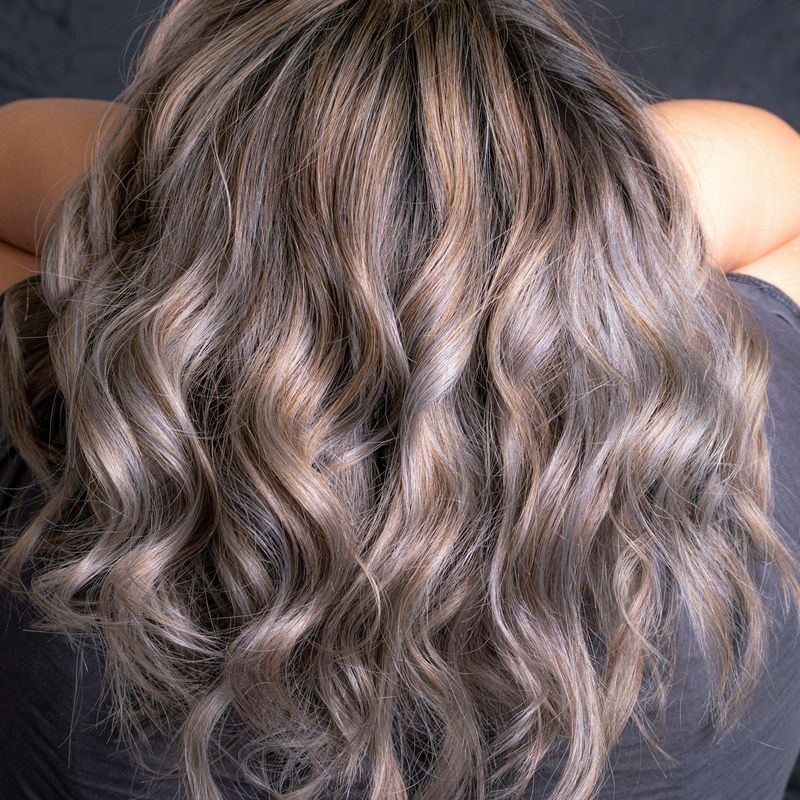
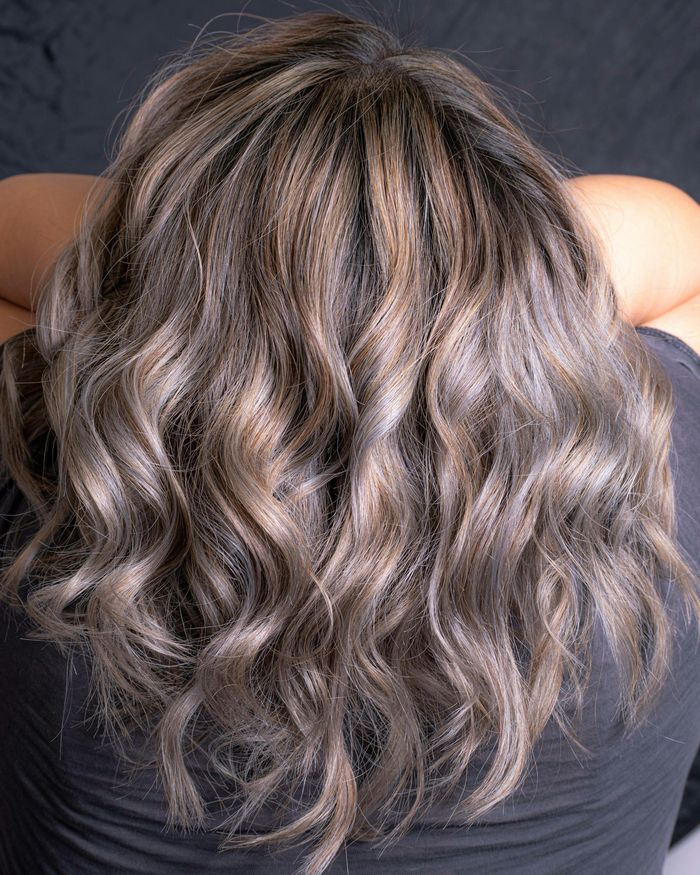
Smoother page: scroll reveal, header shadow, animated accordions; photos in natural shape; booking jump fits the screen
- 'Termin buchen' now jumps to the booking card; heading left, form right on desktop so the whole form incl. submit fits
- fixed double scroll offset (scroll-padding + scroll-margin added up)
- hero: text + photo side by side instead of a cropped full-width background
- photos re-exported uncropped (only logo/face areas cut, more gently), gallery as 4-column masonry
- fade-in on scroll via IntersectionObserver, hero intro animation, hover effects
- respects 'reduce motion'; without JavaScript everything stays visible

Claude-Session: https://claude.ai/code/session_01RXCLACb9gzkrxs8hnWdEQA

diff --git a/index.html b/index.html
@@ -6,6 +6,7 @@
   <title>Haarwerk Huber – Friseur in Graz</title>
   <meta name="description" content="Haarwerk Huber – Ihr Friseur in Graz für Damen, Herren und Kinder. Schnitt, Farbe, Styling. Termin online buchen.">
   <link rel="preload" href="fonts/cormorant-garamond-latin-500-normal.woff2" as="font" type="font/woff2" crossorigin>
+  <script>document.documentElement.classList.add('js');</script>
   <link rel="icon" href="favicon.svg" type="image/svg+xml">
   <link rel="stylesheet" href="style.css">
 </head>
@@ -35,39 +36,44 @@
 
     <section class="hero">
       <div class="inner">
-        <span class="eyebrow">Friseur in der Grazer Innenstadt · seit 2012</span>
-        <h1>Ihr Friseur in Graz</h1>
-        <p>Schnitt, Farbe und Styling für Damen, Herren und Kinder – mit ehrlicher Beratung und Zeit für Sie.</p>
-        <div class="actions">
-          <a class="button" href="#termin">Termin online buchen</a>
-          <a class="button light" href="tel:+43316000000">Anrufen: 0316 000 000</a>
+        <div>
+          <span class="eyebrow" data-intro>Friseur in der Grazer Innenstadt · seit 2012</span>
+          <h1 data-intro style="--delay:.1s">Ihr Friseur <em>in Graz</em></h1>
+          <p data-intro style="--delay:.2s">Schnitt, Farbe und Styling für Damen, Herren und Kinder – mit ehrlicher Beratung und Zeit für Sie.</p>
+          <div class="actions" data-intro style="--delay:.3s">
+            <a class="button" href="#termin">Termin online buchen</a>
+            <a class="button secondary" href="tel:+43316000000">Anrufen: 0316 000 000</a>
+          </div>
         </div>
+        <figure class="hero-photo" data-intro style="--delay:.25s">
+          <img src="img/hero.jpg" alt="Friseurin föhnt einer Kundin die Haare mit der Rundbürste" width="1200" height="801" fetchpriority="high">
+        </figure>
       </div>
     </section>
 
     <section class="section" id="ueber-uns">
       <div class="container split">
         <div>
-          <span class="eyebrow">Über uns</span>
-          <h2>Gutes Handwerk braucht Zeit</h2>
+          <span class="eyebrow" data-reveal>Über uns</span>
+          <h2 data-reveal>Gutes Handwerk braucht Zeit</h2>
           <p class="lead">Seit 2012 schneiden, färben und stylen wir in der Grazer Innenstadt. Bei uns zählt eine ehrliche Beratung mehr als jeder Trend: Wir nehmen uns Zeit, hören zu und finden gemeinsam mit Ihnen den Schnitt, der zu Ihnen passt.</p>
           <p>Wir arbeiten mit hochwertigen, schonenden Produkten und sagen Ihnen den Preis, bevor wir anfangen. Keine Überraschungen an der Kassa.</p>
-          <div class="facts">
+          <div class="facts" data-reveal style="--delay:.1s">
             <div><strong>2012</strong><span>gegründet</span></div>
             <div><strong>3</strong><span>Friseurinnen &amp; Friseure</span></div>
             <div><strong>24/7</strong><span>online buchen</span></div>
           </div>
         </div>
-        <img src="img/ueber-uns.jpg" alt="Hände einer Friseurin beim Haareschneiden" width="900" height="1100" loading="lazy">
+        <img src="img/ueber-uns.jpg" alt="Schere schneidet langes dunkles Haar" width="800" height="1200" loading="lazy" data-reveal style="--delay:.15s">
       </div>
     </section>
 
     <section class="section alt" id="preise">
       <div class="narrow">
         <span class="eyebrow">Leistungen &amp; Preise</span>
-        <h2>Was wir für Sie tun</h2>
+        <h2 data-reveal>Was wir für Sie tun</h2>
         <p class="lead">Tippen Sie auf eine Kategorie, um die Preise zu sehen.</p>
-        <div class="accordion">
+        <div class="accordion" data-reveal>
         <details open>
           <summary>Damen <span class="from">ab € 48</span></summary>
           <div class="panel">
@@ -131,22 +137,22 @@
     <section class="section" id="team">
       <div class="container">
         <span class="eyebrow">Team</span>
-        <h2>Die Menschen hinter der Schere</h2>
+        <h2 data-reveal>Die Menschen hinter der Schere</h2>
         <p class="lead">Drei Menschen, drei Schwerpunkte – und immer jemand, der genau zu Ihrem Haar passt.</p>
         <div class="team">
-          <article class="member">
+          <article class="member" data-reveal style="--delay:0.00s">
             <div class="avatar" aria-hidden="true">MH</div>
             <h3>Maria Huber</h3>
             <p class="role">Inhaberin · Friseurmeisterin</p>
             <p>Gründete den Salon 2012. Spezialistin für Damenschnitte und Hochsteckfrisuren.</p>
           </article>
-          <article class="member">
+          <article class="member" data-reveal style="--delay:0.12s">
             <div class="avatar" aria-hidden="true">LW</div>
             <h3>Lena Wolf</h3>
             <p class="role">Coloristin</p>
             <p>Strähnen, Balayage und natürliche Farbtöne. Berät gerne auch zu Pflege nach dem Färben.</p>
           </article>
-          <article class="member">
+          <article class="member" data-reveal style="--delay:0.24s">
             <div class="avatar" aria-hidden="true">JB</div>
             <h3>Jonas Berger</h3>
             <p class="role">Herren &amp; Bart</p>
@@ -159,15 +165,15 @@
     <section class="section alt" id="galerie">
       <div class="container">
         <span class="eyebrow">Galerie</span>
-        <h2>Einblicke in den Salon</h2>
+        <h2 data-reveal>Einblicke in den Salon</h2>
         <p class="lead">Ein paar Eindrücke aus unserem Alltag.</p>
         <div class="gallery">
-          <figure><img src="img/galerie-1.jpg" alt="Salon-Innenraum mit Spiegeln und Stühlen" width="800" height="800" loading="lazy"></figure>
-          <figure><img src="img/galerie-2.jpg" alt="Werkzeug: Scheren und Kämme" width="800" height="800" loading="lazy"></figure>
-          <figure><img src="img/galerie-3.jpg" alt="Frisch gefärbte Haare von hinten" width="800" height="800" loading="lazy"></figure>
-          <figure><img src="img/galerie-4.jpg" alt="Haare werden geföhnt" width="800" height="800" loading="lazy"></figure>
-          <figure><img src="img/galerie-5.jpg" alt="Pflegeprodukte im Regal" width="800" height="800" loading="lazy"></figure>
-          <figure><img src="img/galerie-6.jpg" alt="Waschbecken im Salon" width="800" height="800" loading="lazy"></figure>
+          <figure data-reveal style="--delay:0.0s"><img src="img/galerie-1.jpg" alt="Gewellte, gesträhnte Haare von hinten" width="700" height="875" loading="lazy"></figure>
+          <figure data-reveal style="--delay:0.1s"><img src="img/galerie-2.jpg" alt="Salon mit runden Spiegeln und Friseurstühlen" width="700" height="702" loading="lazy"></figure>
+          <figure data-reveal style="--delay:0.2s"><img src="img/galerie-3.jpg" alt="Pflegeprodukte im Regal" width="700" height="467" loading="lazy"></figure>
+          <figure data-reveal style="--delay:0.0s"><img src="img/galerie-4.jpg" alt="Herrenschnitt mit Kamm und Schere" width="700" height="1120" loading="lazy"></figure>
+          <figure data-reveal style="--delay:0.1s"><img src="img/galerie-5.jpg" alt="Waschbecken im Salon" width="700" height="467" loading="lazy"></figure>
+          <figure data-reveal style="--delay:0.2s"><img src="img/galerie-6.jpg" alt="Kämme und Bürsten" width="700" height="612" loading="lazy"></figure>
         </div>
       </div>
     </section>
@@ -175,20 +181,20 @@
     <section class="section" id="bewertungen">
       <div class="container">
         <span class="eyebrow">Bewertungen</span>
-        <h2>Das sagen unsere Kundinnen und Kunden</h2>
+        <h2 data-reveal>Das sagen unsere Kundinnen und Kunden</h2>
         <p class="lead">Beispiel-Bewertungen – erfunden für dieses Übungsprojekt.</p>
         <div class="reviews">
-          <figure class="review">
+          <figure class="review" data-reveal style="--delay:0.00s">
             <div class="stars" aria-label="5 von 5 Sternen">★★★★★</div>
             <blockquote>„Endlich ein Friseur, der wirklich zuhört. Der Schnitt sitzt auch nach Wochen noch.“</blockquote>
             <figcaption>Beispiel-Bewertung · Damenschnitt</figcaption>
           </figure>
-          <figure class="review">
+          <figure class="review" data-reveal style="--delay:0.12s">
             <div class="stars" aria-label="5 von 5 Sternen">★★★★★</div>
             <blockquote>„Online gebucht, am Vorabend erinnert, pünktlich drangekommen. So einfach war's noch nie.“</blockquote>
             <figcaption>Beispiel-Bewertung · Herrenschnitt</figcaption>
           </figure>
-          <figure class="review">
+          <figure class="review" data-reveal style="--delay:0.24s">
             <div class="stars" aria-label="5 von 5 Sternen">★★★★★</div>
             <blockquote>„Die Strähnen sehen genau so natürlich aus, wie ich es mir gewünscht habe.“</blockquote>
             <figcaption>Beispiel-Bewertung · Strähnen</figcaption>
@@ -197,12 +203,15 @@
       </div>
     </section>
 
-    <section class="section alt" id="termin">
-      <div class="narrow">
-        <span class="eyebrow">Online-Termin</span>
-        <h2>Termin buchen</h2>
-        <p class="lead">Wählen Sie Leistung und Tag – Sie sehen nur Zeiten, die wirklich frei sind. Die Bestätigung kommt sofort per E-Mail.</p>
-        <div class="booking-card">
+    <section class="section alt">
+      <div class="container">
+        <div class="booking-card" id="termin">
+          <div class="booking-intro">
+            <span class="eyebrow">Online-Termin</span>
+            <h2>Termin buchen</h2>
+            <p class="lead">Sie sehen nur Zeiten, die wirklich frei sind. Die Bestätigung kommt sofort per E-Mail, am Vorabend eine Erinnerung.</p>
+            <p class="small">Di–Fr 9–18 Uhr · Sa 8–13 Uhr<br>Lieber telefonisch? <a href="tel:+43316000000">0316 000 000</a></p>
+          </div>
       <form id="booking-form">
         <label>Leistung
           <select name="service" required>
@@ -252,8 +261,8 @@
     <section class="section" id="faq">
       <div class="narrow">
         <span class="eyebrow">FAQ</span>
-        <h2>Häufige Fragen</h2>
-        <div class="accordion faq">
+        <h2 data-reveal>Häufige Fragen</h2>
+        <div class="accordion faq" data-reveal>
         <details>
           <summary>Wie kann ich meinen Termin ändern oder absagen?</summary>
           <div class="panel"><p>In Ihrer Bestätigungs-E-Mail finden Sie einen Link, mit dem Sie den Termin bis 24 Stunden vorher selbst verschieben oder stornieren können. Danach rufen Sie uns bitte an: +43 316 000 000.</p></div>
@@ -286,7 +295,7 @@
       <div class="container contact">
         <div>
           <span class="eyebrow">Kontakt</span>
-          <h2>So finden Sie uns</h2>
+          <h2 data-reveal>So finden Sie uns</h2>
           <address>
             <p>Haarwerk Huber<br>Musterstraße 12<br>8010 Graz</p>
             <p style="margin-top:1rem">
@@ -298,7 +307,7 @@
             <a class="button secondary" href="https://www.google.com/maps/search/?api=1&amp;query=Musterstra%C3%9Fe+12+8010+Graz" target="_blank" rel="noopener">Route planen ↗</a>
           </p>
         </div>
-        <div id="oeffnungszeiten">
+        <div id="oeffnungszeiten" data-reveal style="--delay:.1s">
           <h3>Öffnungszeiten</h3>
           <table>
             <tr><td>Montag</td><td>geschlossen</td></tr>
@@ -333,6 +342,24 @@
     menuButton.addEventListener('click', () => setMenu(!nav.classList.contains('open')));
     nav.addEventListener('click', (e) => { if (e.target.closest('a')) setMenu(false); }); // Link gewählt → zu
     document.addEventListener('keydown', (e) => { if (e.key === 'Escape') setMenu(false); });
+
+    // ── Header bekommt beim Scrollen einen Schatten ──
+    const header = document.querySelector('.site-header');
+    const onScroll = () => header.classList.toggle('scrolled', window.scrollY > 10);
+    window.addEventListener('scroll', onScroll, { passive: true });
+    onScroll();
+
+    // ── Elemente weich einblenden, sobald sie ins Bild kommen ──
+    // IntersectionObserver meldet, wenn ein Element sichtbar wird – ohne bei jedem Scroll-Pixel zu rechnen.
+    const revealObserver = new IntersectionObserver((entries) => {
+      entries.forEach((entry) => {
+        if (entry.isIntersecting) {
+          entry.target.classList.add('visible');
+          revealObserver.unobserve(entry.target); // nur einmal einblenden
+        }
+      });
+    }, { threshold: 0.12, rootMargin: '0px 0px -40px 0px' });
+    document.querySelectorAll('[data-reveal]').forEach((el) => revealObserver.observe(el));
   </script>
   <script>
     const form = document.getElementById('booking-form');

diff --git a/style.css b/style.css
@@ -69,7 +69,7 @@ h3 { font-size: 1.5rem; }
 
 /* ───────── Kopfzeile mit Menü (bleibt oben stehen) ───────── */
 .site-header {
-  position: sticky; top: 0; z-index: 50;
+  position: sticky; top: 0; z-index: 50; transition: box-shadow 0.3s;
   background: rgba(250, 247, 242, 0.96);
   border-bottom: 1px solid var(--line);
   backdrop-filter: blur(6px);
@@ -78,6 +78,7 @@ h3 { font-size: 1.5rem; }
   max-width: 1120px; margin: 0 auto; padding: 0 1.25rem; height: var(--header-h);
   display: flex; align-items: center; gap: 1.5rem;
 }
+.site-header.scrolled { box-shadow: 0 6px 20px -10px rgba(43, 38, 34, 0.35); }
 .logo { font-family: var(--serif); font-size: 1.6rem; font-weight: 600; color: var(--text); text-decoration: none; white-space: nowrap; }
 .logo span { color: var(--accent); }
 .site-nav { margin-left: auto; }
@@ -109,24 +110,27 @@ h3 { font-size: 1.5rem; }
 @media (max-width: 860px) { .site-header .inner { gap: 0.75rem; } }
 @media (max-width: 480px) { .logo { font-size: 1.35rem; } .header-cta .long { display: none; } .header-cta .short { display: inline; } }
 
-/* ───────── Hero ───────── */
-.hero {
-  position: relative; min-height: min(78vh, 640px); display: flex; align-items: flex-end;
-  background: #8c7a68 url("img/hero.jpg") center / cover no-repeat;
-  color: #fff;
+/* ───────── Hero: Text links, Foto rechts (Foto behält seine Form) ───────── */
+.hero { padding: clamp(2.5rem, 6vw, 5rem) 1.25rem; overflow: hidden; }
+.hero .inner {
+  max-width: 1120px; margin: 0 auto;
+  display: grid; grid-template-columns: 1fr 1fr; gap: clamp(2rem, 5vw, 4.5rem); align-items: center;
 }
-.hero::before { /* dunkler Verlauf, damit der Text auf jedem Foto lesbar bleibt */
-  content: ""; position: absolute; inset: 0;
-  background:
-    linear-gradient(90deg, rgba(43,38,34,0.55) 0%, rgba(43,38,34,0.25) 55%, rgba(43,38,34,0) 80%),
-    linear-gradient(180deg, rgba(43,38,34,0.05) 0%, rgba(43,38,34,0.25) 45%, rgba(43,38,34,0.75) 100%);
-}
-.hero .eyebrow, .hero h1, .hero p { text-shadow: 0 1px 12px rgba(0,0,0,0.35); }
-.hero .inner { position: relative; max-width: 1120px; width: 100%; margin: 0 auto; padding: 4rem 1.25rem 3.5rem; }
-.hero .eyebrow { color: #f3e2d3; }
-.hero h1 { font-size: clamp(2.8rem, 8vw, 5rem); font-weight: 500; max-width: 14ch; }
-.hero p { font-size: 1.15rem; max-width: 34rem; margin: 1rem 0 2rem; color: #f6efe7; }
+.hero h1 { font-size: clamp(2.8rem, 6.5vw, 4.6rem); font-weight: 500; }
+.hero h1 em { font-style: italic; color: var(--accent); }
+.hero p { font-size: 1.15rem; max-width: 30rem; margin: 1.25rem 0 2rem; color: var(--muted); }
 .hero .actions { display: flex; flex-wrap: wrap; gap: 0.75rem; }
+.hero-photo { position: relative; }
+.hero-photo img { width: 100%; height: auto; border-radius: 2px; box-shadow: 0 24px 48px -24px rgba(43, 38, 34, 0.45); }
+.hero-photo::before { /* versetzter Rahmen hinter dem Foto */
+  content: ""; position: absolute; inset: 1.25rem -1.25rem -1.25rem 1.25rem;
+  border: 1px solid var(--accent); border-radius: 2px; z-index: -1;
+}
+.hero .facts { margin-top: 2.5rem; }
+@media (max-width: 860px) {
+  .hero .inner { grid-template-columns: 1fr; }
+  .hero-photo { margin-right: 1.25rem; }
+}
 
 /* ───────── Abschnitte ───────── */
 .section { padding: clamp(3.5rem, 8vw, 6rem) 1.25rem; }
@@ -135,12 +139,12 @@ h3 { font-size: 1.5rem; }
 .narrow { max-width: 760px; margin: 0 auto; }
 
 /* Über uns: Text + Bild nebeneinander */
-.split { display: grid; grid-template-columns: 1.1fr 0.9fr; gap: clamp(2rem, 5vw, 4rem); align-items: center; }
-.split img { aspect-ratio: 4 / 5; object-fit: cover; width: 100%; border-radius: 2px; }
+.split { display: grid; grid-template-columns: 1.4fr 0.6fr; gap: clamp(2rem, 6vw, 5rem); align-items: center; }
+.split img { width: 100%; max-width: 360px; height: auto; justify-self: end; border-radius: 2px; }
 .facts { display: flex; flex-wrap: wrap; gap: 2rem; margin-top: 2rem; }
 .facts strong { display: block; font-family: var(--serif); font-size: 2.2rem; font-weight: 600; color: var(--accent); line-height: 1; }
 .facts span { color: var(--muted); font-size: 0.9rem; }
-@media (max-width: 760px) { .split { grid-template-columns: 1fr; } .split img { aspect-ratio: 4 / 3; } }
+@media (max-width: 760px) { .split { grid-template-columns: 1fr; } .split img { max-width: 280px; justify-self: start; } }
 
 /* Preise: Aufklapp-Liste (details/summary) */
 .accordion { border-top: 1px solid var(--line); }
@@ -178,7 +182,8 @@ h3 { font-size: 1.5rem; }
 
 /* Team */
 .team { display: grid; grid-template-columns: repeat(auto-fit, minmax(220px, 1fr)); gap: 1.5rem; }
-.member { background: var(--bg); border: 1px solid var(--line); padding: 2rem 1.5rem; text-align: center; }
+.member { background: var(--bg); border: 1px solid var(--line); padding: 2rem 1.5rem; text-align: center; transition: transform 0.3s, box-shadow 0.3s; }
+.member:hover { transform: translateY(-4px); box-shadow: 0 16px 32px -20px rgba(43, 38, 34, 0.4); }
 .avatar {
   width: 96px; height: 96px; margin: 0 auto 1.25rem; border-radius: 50%;
   display: grid; place-items: center;
@@ -190,9 +195,11 @@ h3 { font-size: 1.5rem; }
 .member p:last-child { color: var(--muted); font-size: 0.95rem; }
 
 /* Galerie */
-.gallery { display: grid; grid-template-columns: repeat(3, 1fr); gap: 0.75rem; }
-.gallery img { aspect-ratio: 1; object-fit: cover; width: 100%; background: var(--line); }
-@media (max-width: 640px) { .gallery { grid-template-columns: 1fr 1fr; } }
+.gallery { columns: 4 220px; column-gap: 1rem; }
+.gallery figure { break-inside: avoid; margin-bottom: 1rem; overflow: hidden; border-radius: 2px; background: var(--line); }
+.gallery img { width: 100%; height: auto; transition: transform 0.6s cubic-bezier(.2,.7,.2,1); }
+.gallery figure:hover img { transform: scale(1.04); }
+@media (max-width: 640px) { .gallery { columns: 2; column-gap: 0.75rem; } .gallery figure { margin-bottom: 0.75rem; } }
 
 /* Bewertungen */
 .reviews { display: grid; grid-template-columns: repeat(auto-fit, minmax(240px, 1fr)); gap: 1.5rem; }
@@ -227,7 +234,12 @@ form button:disabled { opacity: 0.6; cursor: wait; }
 #form-status { min-height: 1.5rem; }
 #form-status.ok { color: #2f6b3a; }
 #form-status.error { color: #a33a2a; }
-.booking-card { background: #fff; border: 1px solid var(--line); padding: clamp(1.5rem, 4vw, 2.5rem); }
+.booking-card { background: #fff; border: 1px solid var(--line); padding: clamp(1.5rem, 4vw, 2.25rem); box-shadow: 0 20px 40px -28px rgba(43, 38, 34, 0.35); }
+.booking-card { display: grid; grid-template-columns: 0.75fr 1.25fr; gap: clamp(1.5rem, 4vw, 3rem); align-items: start; }
+@media (max-width: 860px) { .booking-card { grid-template-columns: 1fr; gap: 0.5rem; } .booking-intro .small { display: none; } }
+.booking-card h2 { font-size: clamp(1.9rem, 4vw, 2.3rem); }
+.booking-card .lead { margin-bottom: 1.25rem; font-size: 0.95rem; }
+#termin.section { padding-top: clamp(2.5rem, 6vw, 4rem); }
 
 /* ───────── Fußzeile ───────── */
 .site-footer { background: var(--text); color: #d9cfc4; text-align: center; font-size: 0.9rem; padding: 2.5rem 1.25rem; }
@@ -259,3 +271,33 @@ button.button { font-size: 1rem; }
 .legal p, .legal ul { margin-bottom: 1rem; }
 .legal ul { padding-left: 1.25rem; }
 .fictional { background: var(--bg-alt); border-left: 3px solid var(--accent); padding: 0.75rem 1rem; font-size: 0.9rem; margin-bottom: 2rem; }
+
+/* ───────── Bewegung ───────── */
+/* Aufklappen der Preise/FAQ weich animieren (Chrome/Edge; andere Browser klappen einfach auf) */
+:root { interpolate-size: allow-keywords; }
+.accordion details::details-content {
+  height: 0; overflow: clip;
+  transition: height 0.35s ease, content-visibility 0.35s allow-discrete;
+}
+.accordion details[open]::details-content { height: auto; }
+
+/* Beim Scrollen weich einblenden. Nur wenn JavaScript läuft (Klasse "js" am <html>),
+   sonst bleibt alles sichtbar. */
+.js [data-reveal] {
+  opacity: 0; transform: translateY(28px);
+  transition: opacity 0.8s ease, transform 0.8s cubic-bezier(.2,.7,.2,1);
+  transition-delay: var(--delay, 0s);
+}
+.js [data-reveal].visible { opacity: 1; transform: none; }
+
+/* Hero beim Laden: Text und Foto kommen nacheinander */
+.js .hero [data-intro] { opacity: 0; transform: translateY(18px); animation: intro 0.9s cubic-bezier(.2,.7,.2,1) forwards; animation-delay: var(--delay, 0s); }
+.js .hero .hero-photo[data-intro] { transform: translateY(0) scale(0.97); }
+@keyframes intro { to { opacity: 1; transform: none; } }
+
+/* Wer in den Systemeinstellungen "Bewegung reduzieren" an hat, bekommt keine Effekte */
+@media (prefers-reduced-motion: reduce) {
+  .js [data-reveal], .js .hero [data-intro] { opacity: 1; transform: none; transition: none; animation: none; }
+  .gallery img, .member { transition: none; }
+  .accordion details::details-content { transition: none; }
+}
